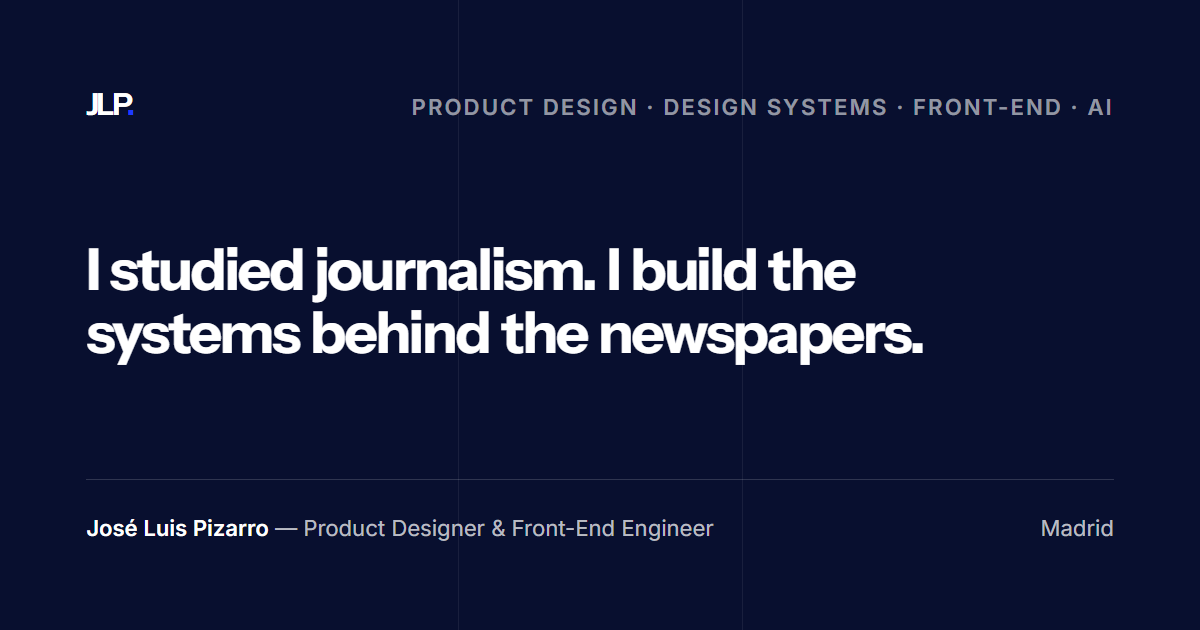
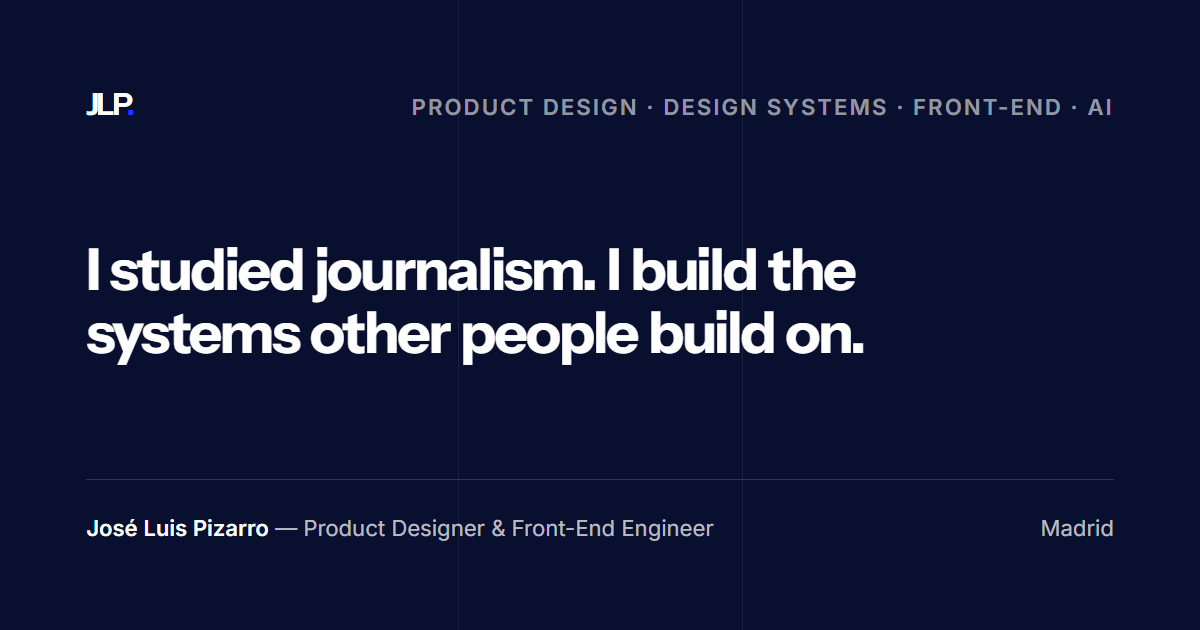
mejoras

Changed region(s): [[0.2467, 0.4825, 0.7708, 0.573]]

diff --git a/es/index.html b/es/index.html
@@ -37,7 +37,7 @@
 <meta content="image/png" property="og:image:type"/>
 <meta content="1200" property="og:image:width"/>
 <meta content="630" property="og:image:height"/>
-<meta content="Tarjeta para compartir: «Estudié periodismo. Construyo los sistemas que hay detrás de los periódicos.» — José Luis Pizarro" property="og:image:alt"/>
+<meta content="Tarjeta para compartir: «Estudié periodismo. Construyo los sistemas sobre los que construyen otros.» — José Luis Pizarro" property="og:image:alt"/>
 <meta content="es_ES" property="og:locale"/>
 <meta content="en_GB" property="og:locale:alternate"/>
 <meta content="José Luis" property="profile:first_name"/>
@@ -47,7 +47,7 @@
 <meta content="José Luis Pizarro — Product Designer &amp; Front-End Engineer" name="twitter:title"/>
 <meta content="José Luis Pizarro Feo — Product Designer &amp; Front-End Engineer en Madrid. Diecinueve años entre agencia, telecomunicaciones y medios; design systems en Aliseda (Brickee) y Prensa Ibérica (42DS)." name="twitter:description"/>
 <meta content="https://joseluispizarro.com/assets/og/index.png" name="twitter:image"/>
-<meta content="Tarjeta para compartir: «Estudié periodismo. Construyo los sistemas que hay detrás de los periódicos.» — José Luis Pizarro" name="twitter:image:alt"/>
+<meta content="Tarjeta para compartir: «Estudié periodismo. Construyo los sistemas sobre los que construyen otros.» — José Luis Pizarro" name="twitter:image:alt"/>
 
 <link as="font" crossorigin="" href="../assets/fonts/instrument-sans-latin.woff2" rel="preload" type="font/woff2"/>
 <link as="font" crossorigin="" href="../assets/fonts/inter-latin.woff2" rel="preload" type="font/woff2"/>
@@ -77,7 +77,7 @@
 <section aria-labelledby="hero-title" class="org-hero syx-span-survey" id="top">
 <canvas aria-hidden="true" class="org-hero__field"></canvas>
 <p class="atom-eyebrow">Product Design · Design Systems · Front-End · IA</p>
-<h1 id="hero-title">Estudié periodismo. Construyo los sistemas que hay detrás de los periódicos.</h1>
+<h1 id="hero-title">Estudié periodismo. Construyo los sistemas sobre los que construyen otros.</h1>
 <div class="org-hero__footer">
 <p class="atom-lede">Product Designer &amp; Front-End Engineer en Prensa Ibérica. Diecinueve años entre agencia, telecomunicaciones y medios. Desde 2021 construyo design systems: primero Brickee en Aliseda y ahora 42DS, la arquitectura compartida que hay detrás de El Periódico, SPORT y La Nueva España.</p>
 <a class="atom-text-link atom-text-link--accent" href="#work">Proyectos seleccionados <span aria-hidden="true">↘</span></a>

diff --git a/index.html b/index.html
@@ -37,7 +37,7 @@
 <meta content="image/png" property="og:image:type"/>
 <meta content="1200" property="og:image:width"/>
 <meta content="630" property="og:image:height"/>
-<meta content="Share card: “I studied journalism. I build the systems behind the newspapers.” — José Luis Pizarro" property="og:image:alt"/>
+<meta content="Share card: “I studied journalism. I build the systems other people build on.” — José Luis Pizarro" property="og:image:alt"/>
 <meta content="en_GB" property="og:locale"/>
 <meta content="es_ES" property="og:locale:alternate"/>
 <meta content="José Luis" property="profile:first_name"/>
@@ -47,7 +47,7 @@
 <meta content="José Luis Pizarro — Product Designer &amp; Front-End Engineer" name="twitter:title"/>
 <meta content="José Luis Pizarro Feo — Product Designer &amp; Front-End Engineer in Madrid. Nineteen years across agency, telecom and media; design systems at Aliseda (Brickee) and Prensa Ibérica (42DS)." name="twitter:description"/>
 <meta content="https://joseluispizarro.com/assets/og/index.png" name="twitter:image"/>
-<meta content="Share card: “I studied journalism. I build the systems behind the newspapers.” — José Luis Pizarro" name="twitter:image:alt"/>
+<meta content="Share card: “I studied journalism. I build the systems other people build on.” — José Luis Pizarro" name="twitter:image:alt"/>
 
 <link as="font" crossorigin="" href="assets/fonts/instrument-sans-latin.woff2" rel="preload" type="font/woff2"/>
 <link as="font" crossorigin="" href="assets/fonts/inter-latin.woff2" rel="preload" type="font/woff2"/>
@@ -77,7 +77,7 @@
 <section aria-labelledby="hero-title" class="org-hero syx-span-survey" id="top">
 <canvas aria-hidden="true" class="org-hero__field"></canvas>
 <p class="atom-eyebrow">Product Design · Design Systems · Front-End · AI</p>
-<h1 id="hero-title">I studied journalism. I build the systems behind the newspapers.</h1>
+<h1 id="hero-title">I studied journalism. I build the systems other people build on.</h1>
 <div class="org-hero__footer">
 <p class="atom-lede">Product Designer &amp; Front-End Engineer at Prensa Ibérica. Nineteen years across agency, telecom and media. Since 2021 I build design systems — first Brickee at Aliseda, now 42DS: the shared architecture behind El Periódico, SPORT and La Nueva España.</p>
 <a class="atom-text-link atom-text-link--accent" href="#work">Selected work <span aria-hidden="true">↘</span></a>

diff --git a/BRAND.md b/BRAND.md
@@ -7,7 +7,7 @@ Este documento manda sobre el gusto de quien esté escribiendo, incluido el mío
 
 ## 1. La tesis
 
-> **Estudié periodismo. Construyo los sistemas que hay detrás de los periódicos.**
+> **Estudié periodismo. Construyo los sistemas sobre los que construyen otros.**
 
 No es un titular bonito: es el eje de todo. El diferencial de JLP no es «diseñador
 que además programa» —eso hay a miles— sino **rigor editorial aplicado a
@@ -15,6 +15,26 @@ sistemas**. Viene de una redacción, y eso se nota en cómo decide: mide antes d
 opinar, cita la fuente, distingue el dato de la interpretación.
 
 Cualquier pieza que no pueda apoyarse en esa tesis sobra.
+
+### Por qué la segunda frase ya no dice «periódicos»
+
+Decía «los sistemas que hay detrás de los periódicos», y se cambió por dos
+razones, en este orden:
+
+1. **Repetía lo que el lede ya prueba.** Dos líneas más abajo, en el mismo primer
+   vistazo, está «42DS: la arquitectura compartida que hay detrás de El
+   Periódico, SPORT y La Nueva España» —con nombres propios. El titular gastaba
+   su segunda mitad en afirmar sin pruebas lo que la línea siguiente demuestra
+   con ellas.
+2. **El sector no es el diferencial; el método sí.** La redacción es el **origen**
+   del rigor, no su techo: un design system es, por definición, aquello sobre lo
+   que construyen otros, y eso es igual de cierto en un grupo editorial que fuera
+   de él. «Otros» no nombra ningún gremio y los admite todos.
+
+Lo que **no** cambió, y no debe cambiar: la primera frase. «Estudié periodismo»
+es el origen del criterio y es lo que hace que la segunda no suene a cualquiera.
+Si alguien propone quitarla para «sonar más de producto», ha entendido la tesis
+al revés.
 
 ### Lo que sostiene la tesis
 

diff --git a/.claude/skills/brand/SKILL.md b/.claude/skills/brand/SKILL.md
@@ -16,8 +16,11 @@ prioridad 3 de `CLAUDE.md`, y a la 2 cuando el cambio toca color o contraste.
 
 ## Procedimiento
 
-1. **Localiza la tesis.** «Estudié periodismo. Construyo los sistemas que hay
-   detrás de los periódicos.» Lo que no se apoye en ella, sobra.
+1. **Localiza la tesis.** «Estudié periodismo. Construyo los sistemas sobre los
+   que construyen otros.» Lo que no se apoye en ella, sobra. La segunda frase
+   dejó de decir «periódicos» a propósito: el sector es el origen del criterio,
+   no su techo, y el lede de la home ya lo prueba con nombres propios. Ver
+   `BRAND.md` §1 antes de proponer volver atrás.
 2. **Identifica a qué registro sirve la pieza** —escala, evidencia, de principio
    a fin, gobernanza de IA, oficio visual (`BRAND.md` §1). Si no sirve a ninguno,
    pregunta antes de escribirla.
